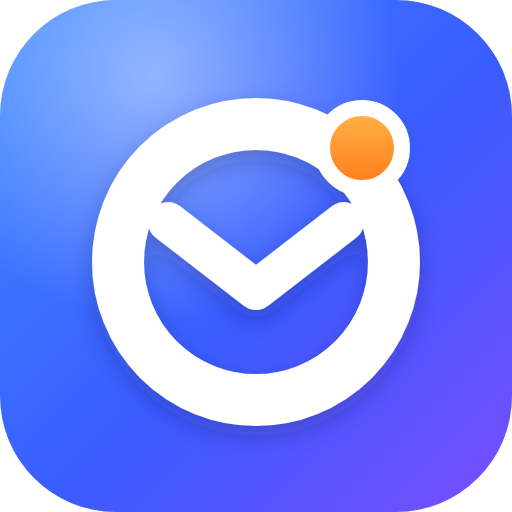
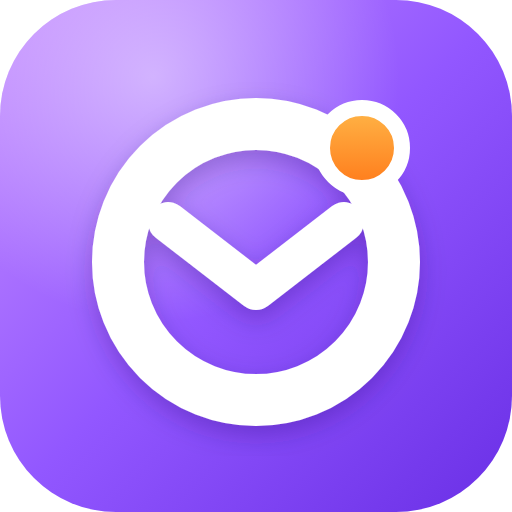
Make purple the default colour
- Accent #7c4dff in light mode and #a879ff in dark mode, replacing blue
- Logo, home-screen icons and browser theme colour in the same purple
- Settings calls the default accent "Default purple"

Claude-Session: https://claude.ai/code/session_01LUJHTVBgiPAABFWrwwUgwZ

diff --git a/index.html b/index.html
@@ -8,7 +8,7 @@
 <link rel="icon" href="icon-192.png" type="image/png" sizes="192x192">
 <link rel="apple-touch-icon" href="apple-touch-icon.png">
 <link rel="manifest" href="manifest.webmanifest">
-<meta name="theme-color" content="#3a5bff">
+<meta name="theme-color" content="#7c4dff">
 <meta name="apple-mobile-web-app-title" content="OwnInbox">
 <meta name="application-name" content="OwnInbox">
 <script src="config.js"></script>
@@ -72,9 +72,9 @@ li a:hover,li a:focus-visible{background:color-mix(in srgb,var(--accent) 8%,tran
 .all{font:inherit;font-size:12px;margin:10px 0 0;padding:4px 10px;border:1px solid var(--line);border-radius:999px;background:none;color:var(--accent);cursor:pointer}
 .empty{margin:16px 0 0;padding:14px;border:1px dashed var(--line);border-radius:10px;color:var(--mute);font-size:14px}
 .empty strong{color:var(--ink);display:block;margin-bottom:2px}
-:root{--bg:#e8ecf4;--panel:#fff;--ink:#1d1d1f;--mute:#6e6e73;--line:rgba(60,60,67,.14);--accent:#0071e3;--dot:#0071e3;--today:#0071e3;--todayink:#fff;--glass:rgba(255,255,255,.52);--glass-hi:rgba(255,255,255,.9);--glass-lo:rgba(255,255,255,.28);--gloss:rgba(255,255,255,.26);--pill:#fff;--shadow:0 12px 40px rgba(40,60,110,.16);--b1:#6fa8ff;--b2:#ffa6d2;--b3:#9ff0cf}
-@media(prefers-color-scheme:dark){:root:not([data-theme="light"]){--bg:#090b12;--panel:#181c28;--ink:#f5f5f7;--mute:#a1a1aa;--line:rgba(255,255,255,.12);--accent:#0a84ff;--dot:#0a84ff;--today:#0a84ff;--todayink:#fff;--glass:rgba(40,44,62,.5);--glass-hi:rgba(255,255,255,.22);--glass-lo:rgba(255,255,255,.07);--gloss:rgba(255,255,255,.14);--pill:rgba(255,255,255,.2);--shadow:0 14px 48px rgba(0,0,0,.55);--b1:#2447ff;--b2:#9b2fd0;--b3:#0b9c88}}
-:root[data-theme="dark"]{--bg:#090b12;--panel:#181c28;--ink:#f5f5f7;--mute:#a1a1aa;--line:rgba(255,255,255,.12);--accent:#0a84ff;--dot:#0a84ff;--today:#0a84ff;--todayink:#fff;--glass:rgba(40,44,62,.5);--glass-hi:rgba(255,255,255,.22);--glass-lo:rgba(255,255,255,.07);--gloss:rgba(255,255,255,.14);--pill:rgba(255,255,255,.2);--shadow:0 14px 48px rgba(0,0,0,.55);--b1:#2447ff;--b2:#9b2fd0;--b3:#0b9c88}
+:root{--bg:#e8ecf4;--panel:#fff;--ink:#1d1d1f;--mute:#6e6e73;--line:rgba(60,60,67,.14);--accent:#7c4dff;--dot:#7c4dff;--today:#7c4dff;--todayink:#fff;--glass:rgba(255,255,255,.52);--glass-hi:rgba(255,255,255,.9);--glass-lo:rgba(255,255,255,.28);--gloss:rgba(255,255,255,.26);--pill:#fff;--shadow:0 12px 40px rgba(40,60,110,.16);--b1:#6fa8ff;--b2:#ffa6d2;--b3:#9ff0cf}
+@media(prefers-color-scheme:dark){:root:not([data-theme="light"]){--bg:#090b12;--panel:#181c28;--ink:#f5f5f7;--mute:#a1a1aa;--line:rgba(255,255,255,.12);--accent:#a879ff;--dot:#a879ff;--today:#a879ff;--todayink:#fff;--glass:rgba(40,44,62,.5);--glass-hi:rgba(255,255,255,.22);--glass-lo:rgba(255,255,255,.07);--gloss:rgba(255,255,255,.14);--pill:rgba(255,255,255,.2);--shadow:0 14px 48px rgba(0,0,0,.55);--b1:#2447ff;--b2:#9b2fd0;--b3:#0b9c88}}
+:root[data-theme="dark"]{--bg:#090b12;--panel:#181c28;--ink:#f5f5f7;--mute:#a1a1aa;--line:rgba(255,255,255,.12);--accent:#a879ff;--dot:#a879ff;--today:#a879ff;--todayink:#fff;--glass:rgba(40,44,62,.5);--glass-hi:rgba(255,255,255,.22);--glass-lo:rgba(255,255,255,.07);--gloss:rgba(255,255,255,.14);--pill:rgba(255,255,255,.2);--shadow:0 14px 48px rgba(0,0,0,.55);--b1:#2447ff;--b2:#9b2fd0;--b3:#0b9c88}
 body{font-family:-apple-system,BlinkMacSystemFont,"SF Pro Display","SF Pro Text","Helvetica Neue",system-ui,"Segoe UI",sans-serif;-webkit-font-smoothing:antialiased;min-height:100vh}
 body::before{content:"";position:fixed;inset:-10%;z-index:-1;background:radial-gradient(40vmax 40vmax at 12% 10%,var(--b1),transparent 70%),radial-gradient(45vmax 45vmax at 88% 20%,var(--b2),transparent 70%),radial-gradient(50vmax 50vmax at 55% 95%,var(--b3),transparent 70%);opacity:.75;filter:blur(24px);animation:drift 28s ease-in-out infinite alternate}
 @keyframes drift{to{transform:translate3d(-3%,4%,0) scale(1.08)}}
@@ -1097,7 +1097,7 @@ html.finept .wrch{display:inline}
 
 /* brand */
 .brand{flex:1 1 100%;display:flex;align-items:center;gap:9px;width:max-content;max-width:max-content;margin:0 0 6px;color:var(--ink);text-decoration:none;font-size:16px;font-weight:750;letter-spacing:-.02em;text-shadow:var(--txt-shadow)}
-.brand img{width:28px;height:28px;border-radius:8px;box-shadow:0 4px 12px rgba(40,60,200,.28)}
+.brand img{width:28px;height:28px;border-radius:8px;box-shadow:0 4px 12px rgba(110,50,230,.3)}
 .brand:focus-visible{outline:2px solid var(--accent);outline-offset:4px;border-radius:10px}
 html.motion .brand img{transition:transform .35s cubic-bezier(.3,1.5,.5,1)}
 html.motion .brand:hover img{transform:rotate(-8deg) scale(1.06)}
@@ -2075,7 +2075,7 @@ function recent(){try{var a=JSON.parse(localStorage.getItem("colrecent")||"[]");
 function pushRecent(c){var a=recent().filter(function(x){return x!==c});a.unshift(c);try{localStorage.setItem("colrecent",JSON.stringify(a.slice(0,8)))}catch(e){}}
 
 /* --- what a picker controls: an account ("acc:email") or the app accent ("accent") --- */
-var ACC_DEF="#0a84ff";
+var ACC_DEF="#7c4dff";
 function getAccent(){var c=ls("wacc","");return HEX.test(c)?c:""}
 function applyAccent(){var c=getAccent(),r=document.documentElement.style;if(c){r.setProperty("--accent",c);r.setProperty("--dot",c);r.setProperty("--today",c)}else{r.removeProperty("--accent");r.removeProperty("--dot");r.removeProperty("--today")}}
 applyAccent();
@@ -2124,7 +2124,7 @@ EL("sttabs").innerHTML=TABS.map(function(t){var on=t[0]===stTab;return '<button 
 if(stTab==="acc"){h='<p class="stp">Every email, filter and chip uses its account’s colour. Tap an account to change it.</p>'+(A.length?A.map(function(e,i){return cardAcc(e,i===0)}).join(""):'<p class="stempty">Sign in with Google to see your accounts here.</p>')+
 (window.gAuth&&gAuth.addAccount?'<button type="button" class="btn stadd" id="stadd"><svg width="15" height="15" viewBox="0 0 24 24" fill="none" stroke="currentColor" stroke-width="2.2" stroke-linecap="round" aria-hidden="true"><path d="M12 5v14M5 12h14"/></svg> Add another Gmail account</button>':'')}
 else if(stTab==="look"){var c=getAccent()||ACC_DEF;h='<div class="stgrp"><div class="stgl">Theme</div>'+segH("theme",[["auto","Automatic"],["light","Light"],["dark","Dark"]],typeof TH==="string"?TH:"auto","Theme")+'</div>'+
-'<section class="stcard open" style="--ac:'+c+'"><div class="stch static"><span class="stdot"></span><span class="stct"><b>Accent colour</b><small><span class="stcn">'+esc(getAccent()?cName(c):"Default blue")+'</span> · buttons, today, links</small></span></div><div class="stcb"><div class="stacp" aria-hidden="true"><span class="btn pri">Send</span><span class="stacd">13</span><span class="stacl">Open in Gmail</span><span class="stacs"><i></i></span></div>'+pickerHtml("accent")+'<div class="stcf"><button type="button" class="btn sm" data-accdef="1">Default accent</button></div></div></section>'+
+'<section class="stcard open" style="--ac:'+c+'"><div class="stch static"><span class="stdot"></span><span class="stct"><b>Accent colour</b><small><span class="stcn">'+esc(getAccent()?cName(c):"Default purple")+'</span> · buttons, today, links</small></span></div><div class="stcb"><div class="stacp" aria-hidden="true"><span class="btn pri">Send</span><span class="stacd">13</span><span class="stacl">Open in Gmail</span><span class="stacs"><i></i></span></div>'+pickerHtml("accent")+'<div class="stcf"><button type="button" class="btn sm" data-accdef="1">Default accent</button></div></div></section>'+
 '<div class="stgrp"><div class="stgl">Email list</div>'+segH("dense",[["0","Comfortable"],["1","Compact"]],String(p.dense?1:0),"Email list density")+'</div>'}
 else if(stTab==="mail"){h='<div class="stgrp">'+sw("snip","Show message previews","A line of each email under its subject",p.snip)+sw("accl","Show account labels","Coloured name of the account on each email",p.accl)+sw("star","Star important emails in Inbox","A small ★ next to emails that are also in Important",p.star)+sw("mread","Mark as read when opened","Turn off to keep emails unread until you read them in Gmail",p.mread)+sw("spamauto","Automatic spam filter","Moves promotions and discounts to Spam. TikTok and your own spam list always go to Spam",p.spamauto)+'</div>'+
 '<div class="stgrp"><div class="stgl">Open the page on</div>'+segH("open",[["in","Inbox"],["imp","Important"]],p.open,"Open the page on")+'</div>'+
@@ -2145,7 +2145,7 @@ var w=t.closest("[data-col]");if(w&&cp){setCol(k,w.dataset.col);syncCp(cp,w.data
 if(t.closest("[data-rand]")&&cp){var r=surprise(k);setCol(k,r);syncCp(cp,r);return}
 if(t.closest("[data-eye]")&&cp){new EyeDropper().open().then(function(r){var c=normHex(r.sRGBHex);if(c){setCol(k,c);syncCp(cp,c)}},function(){});return}
 var d=t.closest("[data-acdef]");if(d){var cs=accCols();delete cs[d.dataset.acdef];try{localStorage.setItem("acccol",JSON.stringify(cs))}catch(x){}repaint();var c0=accColor(d.dataset.acdef).toLowerCase(),cp2=d.closest(".stcard").querySelector(".cp");syncCp(cp2,c0);return}
-if(t.closest("[data-accdef]")){try{localStorage.removeItem("wacc")}catch(x){}applyAccent();EL("st").style.removeProperty("--accent");syncCp(t.closest(".stcard").querySelector(".cp"),ACC_DEF);t.closest(".stcard").querySelector(".stcn").textContent="Default blue";return}
+if(t.closest("[data-accdef]")){try{localStorage.removeItem("wacc")}catch(x){}applyAccent();EL("st").style.removeProperty("--accent");syncCp(t.closest(".stcard").querySelector(".cp"),ACC_DEF);t.closest(".stcard").querySelector(".stcn").textContent="Default purple";return}
 var so=t.closest("[data-acout]");if(so){so.disabled=true;gAuth.signOut(so.dataset.acout).then(function(){location.reload()});return}
 var sg=t.closest("[data-seg]");if(sg){var id=sg.dataset.seg,v=sg.dataset.v;sg.parentNode.querySelectorAll("button").forEach(function(x){var on=x===sg;x.classList.toggle("on",on);x.setAttribute("aria-checked",on)});
 if(id==="theme")setTheme(v,true);else if(id==="dense")setP("dense",v==="1"?1:0);else if(id==="open")setP("open",v);return}
